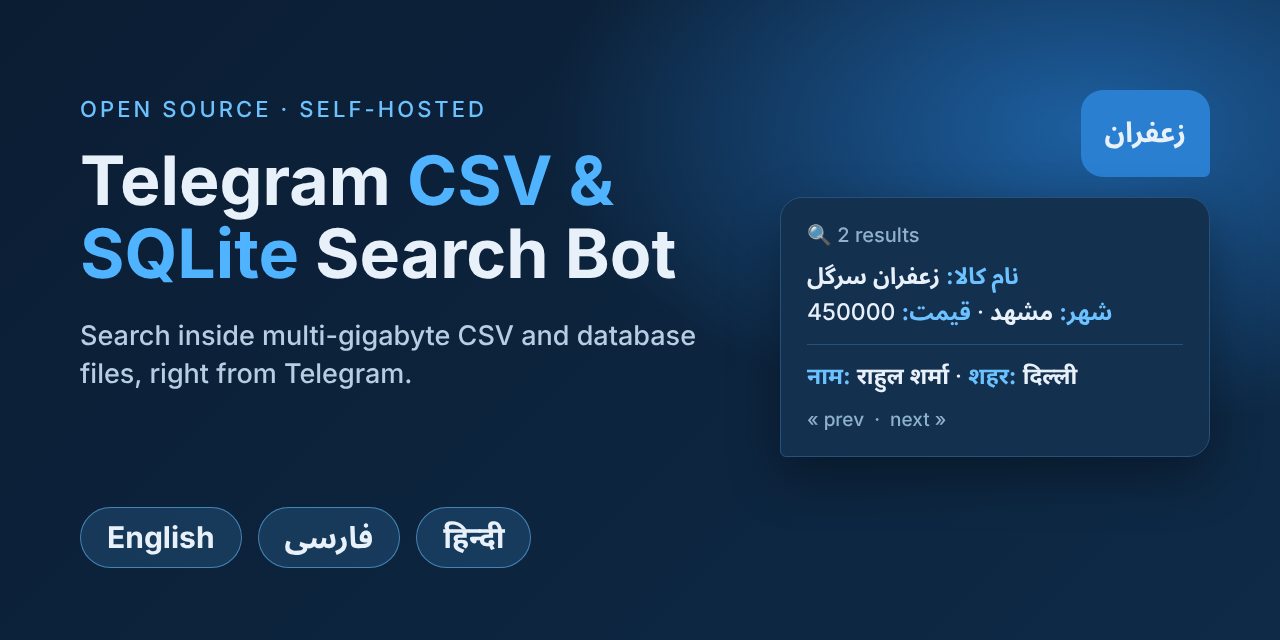
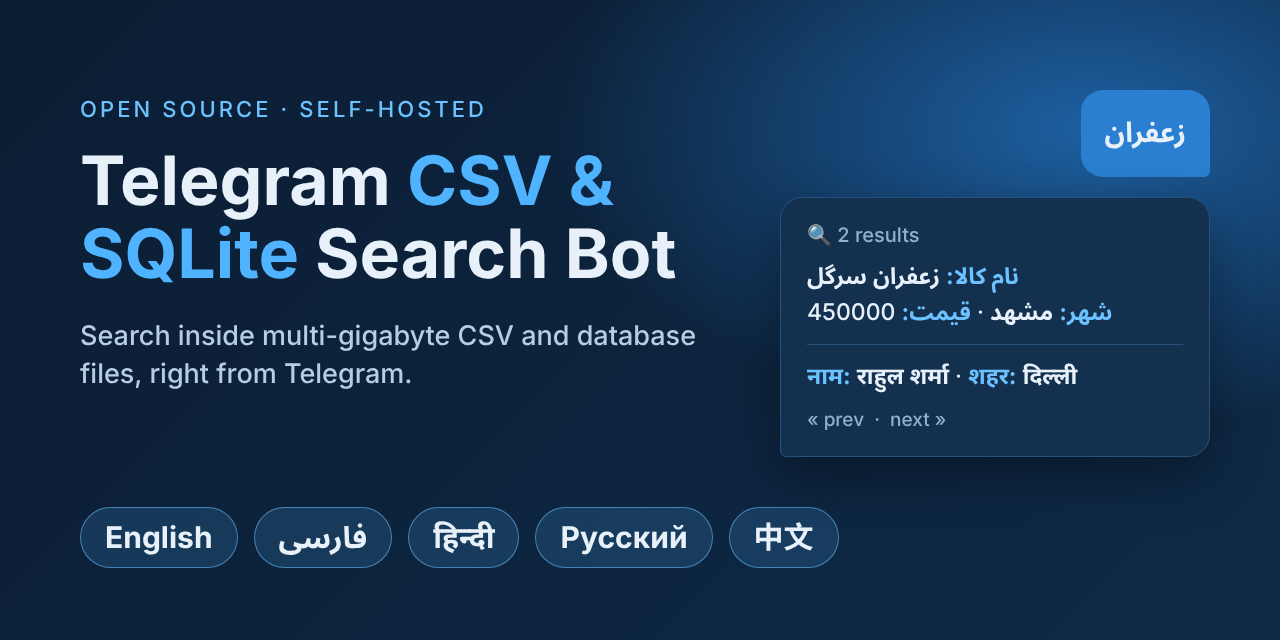
Add Russian and Chinese READMEs; Chinese/Cyrillic search and GBK/Big5/CP1251 encoding detection
Claude-Session: https://claude.ai/code/session_01JgLUDLTUizLZETAGT38Eft

Changed region(s): [[0.0938, 0.7812, 0.6562, 0.9062]]

diff --git a/tests/test_search.py b/tests/test_search.py
@@ -42,6 +42,20 @@ class SearchTest(unittest.TestCase):
         for q in ("राहुल", "शर्मा", "दिल्ली", "09123456789", "०९१२", "फोन", "फ़ोन", '"राहुल शर्मा"'):
             self.assertEqual(self.db.search(q)[0], 1, q)
 
+    def test_chinese_and_russian(self):
+        self.add("z", "z.csv", "姓名,备注\n王小明,我在北京工作\n李华,Привет мир Москва\n".encode())
+        for q, n in (("北京", 1), ("工作", 1), ("在北京", 1), ("小明", 1), ("北", 1), ("京北", 0),
+                     ("王小明 北京", 1), ("привет", 1), ("МОСК", 1), ("мир москва", 1), ('"我在北京"', 1)):
+            self.assertEqual(self.db.search(q)[0], n, q)
+
+    def test_legacy_encodings(self):
+        cases = [("ru", "имя,город\nИван,Москва\nПётр,Санкт-Петербург\nАнна,Казань\n", "cp1251", "москва"),
+                 ("zh", "姓名,城市\n王小明,北京\n李华,上海\n张伟,广州\n", "gbk", "北京"),
+                 ("tw", "姓名,城市\n王小明,台北\n李華,高雄\n", "big5", "高雄")]
+        for uid, text, enc, word in cases:
+            self.add(uid, uid + ".csv", text.encode(enc))
+            self.assertEqual(self.db.search(word)[0], 1, enc)
+
     def test_users(self):
         self.assertTrue(self.db.add_user(5))
         self.assertFalse(self.db.add_user(5))

diff --git a/csvbot/db.py b/csvbot/db.py
@@ -9,7 +9,7 @@ import time
 from contextlib import closing, contextmanager
 from typing import Callable, Iterable
 
-from .text import normalize, tokens
+from .text import CJK, normalize, tokens
 
 SEP = "\x1f"
 BATCH = 20_000
@@ -257,9 +257,15 @@ class Database:
         if len(q) > 2 and q[0] in "\"«" and q[-1] in "\"»":
             words = tokens(q[1:-1])
             return '"' + " ".join(words) + '"' if words else None
-        words = tokens(q)
+        terms, pos = [], 0
+        for m in CJK.finditer(q):  # a run of Chinese/Japanese characters is matched as a phrase
+            terms += [(w, False) for w in tokens(q[pos:m.start()])]
+            terms.append((" ".join(tokens(m.group())), True))
+            pos = m.end()
+        terms += [(w, False) for w in tokens(q[pos:])]
         # Prefix-matching very short words expands to huge term lists; match them exactly.
-        return " ".join(f'"{w}"*' if len(w) >= 3 else f'"{w}"' for w in words) if words else None
+        return " ".join(f'"{w}"' if phrase or len(w) < 3 else f'"{w}"*'
+                        for w, phrase in terms) if terms else None
 
     def delete_row(self, row_id: int) -> bool:
         """Remove one row from the index (the source file is left untouched)."""

diff --git a/csvbot/loader.py b/csvbot/loader.py
@@ -4,8 +4,15 @@ import codecs
 import csv
 from typing import Iterator
 
+from charset_normalizer import from_bytes
+
 SAMPLE_SIZE = 1 << 20  # 1 MB
 csv.field_size_limit(1 << 24)
+
+
+# Legacy code pages we accept from charset detection: Persian/Arabic, Cyrillic, Chinese.
+_LEGACY = {"cp1256": "cp1256", "cp1251": "cp1251", "gb18030": "gb18030", "gbk": "gb18030",
+           "gb2312": "gb18030", "big5": "big5", "big5hkscs": "big5"}
 
 
 def detect_encoding(sample: bytes) -> str:
@@ -16,7 +23,11 @@ def detect_encoding(sample: bytes) -> str:
         codecs.getincrementaldecoder("utf-8-sig")().decode(sample, final=False)
         return "utf-8-sig"
     except UnicodeDecodeError:
-        return "cp1256"  # Windows Arabic/Persian (old Excel exports)
+        pass
+    best = from_bytes(sample[:-4] if len(sample) > 4096 else sample).best()  # a cut-off tail skews detection
+    if best and best.encoding.lower().replace("-", "_") in _LEGACY:
+        return _LEGACY[best.encoding.lower().replace("-", "_")]
+    return "cp1256"  # Windows Arabic/Persian (old Excel exports)
 
 
 def detect_dialect(text: str):

diff --git a/README.ru.md b/README.ru.md
@@ -1,0 +1,96 @@
+<div align="center">
+
+**[English](README.md)** · **[فارسی](README.fa.md)** · **[हिन्दी](README.hi.md)** · **Русский** · **[中文](README.zh.md)**
+
+</div>
+
+# Telegram-бот для поиска по CSV и SQLite
+
+> Бесплатный бот с открытым исходным кодом, который **ищет внутри CSV, TSV и SQLite (`.db`) файлов прямо в Telegram**. Положите файлы в папку и ищите по ним, даже если они весят несколько гигабайт. Полнотекстовый поиск для **русского, английского, персидского, хинди и китайского**. Работает на macOS, Windows, Linux и в Docker.
+
+Ключевые слова: telegram бот, поиск по csv, поиск в csv файле, поиск по sqlite, большие csv файлы, полнотекстовый поиск, python-telegram-bot, self-hosted.
+
+## Возможности
+- **Слежение за папкой:** кладите `.csv`, `.tsv`, `.db`, `.sqlite`, `.sqlite3` в `data/`. Новые файлы индексируются автоматически, изменённые индексируются заново, удалённые пропадают из выдачи.
+- **Огромные файлы:** CSV читается потоком, поэтому память остаётся около 250 МБ даже для файла 3 ГБ и больше. CSV на 6 млн строк индексируется примерно за 2,5 минуты, большинство запросов выполняется быстрее 200 мс (SQLite FTS5).
+- **Базы SQLite:** поиск по всем таблицам каждого `.db` файла (файл открывается только для чтения).
+- **Много языков:** цифры (`0912`, `۰۹۱۲`, `०९१२`) считаются одинаковыми, арабские диакритики и «нукта» в хинди убираются, а китайский текст ищется по любой части фразы (`北京` найдётся в «我在北京工作»). Кодировка (UTF-8, UTF-16, GBK, Big5, Windows-1251/1256) и разделитель (`, ; | tab`) определяются автоматически.
+- **Синтаксис поиска:** несколько слов (должны встретиться все), начало слова (от 3 символов), `"точная фраза"`, кнопки страниц.
+- **Контроль доступа:** по умолчанию бот закрыт; администратор добавляет и удаляет пользователей прямо в чате (`/adduser`, `/deluser`).
+- **Безопасность:** лимиты поисков и результатов на пользователя, журнал всех запросов (`/audit`).
+- **Инструменты администратора:** загрузка небольших файлов в чат, `/reload`, удаление строки из индекса или из исходного файла.
+- **Нужен только токен бота** (без `API_ID` и `API_HASH`). Есть прокси и свой сервер Bot API для регионов, где Telegram заблокирован.
+
+## Быстрый старт
+
+### 1. Создайте бота
+1. Напишите [@BotFather](https://t.me/BotFather) команду `/newbot` и скопируйте **токен**.
+2. Узнайте свой числовой id у [@userinfobot](https://t.me/userinfobot); это `ADMIN_IDS`.
+
+### 2. Установка
+
+**Docker** (любая ОС)
+```bash
+git clone https://github.com/plaipa/telegram-csv-search-bot.git
+cd telegram-csv-search-bot
+cp .env.example .env        # заполните BOT_TOKEN и ADMIN_IDS
+docker compose up -d --build
+```
+
+**Python 3.10+** (macOS / Linux)
+```bash
+cp .env.example .env        # заполните BOT_TOKEN и ADMIN_IDS
+python3 -m venv .venv && .venv/bin/pip install -r requirements.txt
+.venv/bin/python -m csvbot.check   # проверяет настройки и доступ к Telegram
+.venv/bin/python -m csvbot.bot
+```
+В Windows используйте `py -m venv .venv`, `.venv\Scripts\pip` и `.venv\Scripts\python`. На Linux-сервере `bash deploy/setup.sh` создаёт службу systemd; на macOS: `bash deploy/mac.sh`. Нужен SQLite 3.43 или новее (проверка: `python -m csvbot.check`; в Docker он уже есть).
+
+### 3. Добавьте файлы и ищите
+Скопируйте CSV / SQLite файлы в `data/` (там лежит вымышленный `sample.csv`). В течение минуты администратор получит сообщение «файл проиндексирован». После этого отправьте боту любое слово.
+
+## Настройки (`.env`)
+| Параметр | Описание | По умолчанию |
+|---|---|---|
+| `BOT_TOKEN` | Токен от @BotFather (обязательно) | — |
+| `ADMIN_IDS` | Числовые id администраторов через запятую | — |
+| `ALLOWED_USER_IDS` | Дополнительные пользователи (кроме администраторов и добавленных через `/adduser`) | — |
+| `DATA_DIR` | Папка с файлами (относительный или полный путь) | `data` |
+| `DB_PATH` | Файл поискового индекса (создаётся сам) | `index.db` |
+| `SCAN_INTERVAL` | Интервал проверки папки, секунд | `60` |
+| `PAGE_SIZE` | Результатов на страницу | `5` |
+| `SEARCH_LIMIT_HOUR` / `SEARCH_LIMIT_DAY` | Поисков на обычного пользователя в час / сутки (`0` = без лимита) | `60` / `300` |
+| `MAX_RESULTS` | Сколько результатов обычный пользователь может листать в одном поиске (`0` = без лимита) | `50` |
+| `AUDIT_DAYS` | Сколько дней хранить журнал поисков (`0` = всегда) | `180` |
+| `PROXY` | например `socks5://127.0.0.1:10808` | — |
+| `TELEGRAM_API_URL` | Свой сервер Bot API | `https://api.telegram.org` |
+
+После любых изменений запускайте `python -m csvbot.check`; он не выводит секреты.
+
+## Команды бота
+| Команда | Действие | Кому |
+|---|---|---|
+| любой текст, `/search текст` | Поиск | администраторам и разрешённым пользователям |
+| `/start` | Справка; без доступа пользователь видит, как связаться с администратором | всем |
+| `/files` | Список проиндексированных файлов | администратор |
+| `/reload` | Проверить папку сейчас | администратор |
+| `/adduser ID`, `/deluser ID`, `/users` | Управление пользователями | администратор |
+| `/audit [ID]` | Последние поиски (кто, когда, что) | администратор |
+| кнопка 🗑 под результатами | Удалить строку из индекса или ещё и из исходного файла (необратимо) | администратор |
+| отправка файла | Добавить CSV/DB меньше 20 МБ | администратор |
+
+## Сменить токен или сервер Telegram API
+- **Токен:** отправьте BotFather `/revoke` (тот же бот) или `/newbot`, впишите новый токен в `BOT_TOKEN` в `.env`, запустите `python -m csvbot.check` и перезапустите бота. На один токен — один запущенный экземпляр.
+- **Сервер API:** задайте `TELEGRAM_API_URL=https://your-mirror.example.com` (обратный прокси, Cloudflare Worker или собственный [telegram-bot-api](https://github.com/tdlib/telegram-bot-api); последний ещё и снимает лимит 20 МБ на загрузку). Токен бота проходит через этот сервер, поэтому используйте только свой или полностью доверенный.
+- **Прокси / VPN:** `PROXY=socks5://127.0.0.1:10808`. `python -m csvbot.check` умеет находить локальный прокси сам.
+
+## Документация
+- Полное руководство: [English](README.md) · [فارسی](README.fa.md) · [हिन्दी](README.hi.md) · [中文](README.zh.md)
+- Запуск на своём компьютере: [docs/local.md](docs/local.md) · бесплатный сервер Oracle Cloud: [docs/oracle-cloud.md](docs/oracle-cloud.md)
+- Настройки репозитория на GitHub: [docs/github-seo.md](docs/github-seo.md)
+- Тесты: `python -m unittest discover -s tests -v`
+
+## Ответственное использование, лицензия и отказ от гарантий
+Бот — универсальный инструмент поиска по файлам. В комплекте нет никаких данных, он ничего никуда не отправляет и ничего не собирает; каждая установка независима и читает только файлы, которые **вы** положили в `data/`. Вы отвечаете за свои данные и за соблюдение местных законов (включая законы о защите персональных данных) и правил Telegram. Не используйте бот для поиска по персональным данным, собранным или утёкшим без согласия людей. Не добавляйте `.env` и `data/` в git.
+
+Лицензия [MIT](LICENSE), предоставляется «как есть», без гарантий.

diff --git a/README.zh.md b/README.zh.md
@@ -1,0 +1,96 @@
+<div align="center">
+
+**[English](README.md)** · **[فارسی](README.fa.md)** · **[हिन्दी](README.hi.md)** · **[Русский](README.ru.md)** · **中文**
+
+</div>
+
+# Telegram CSV 与 SQLite 搜索机器人
+
+> 免费开源的 **Telegram 机器人，可在 CSV、TSV 和 SQLite（`.db`）文件内搜索**。把文件放进文件夹，就能直接在 Telegram 里搜索，几个 GB 的大文件也没问题。支持**中文、英语、波斯语、印地语和俄语**的全文搜索。可运行于 macOS、Windows、Linux 和 Docker。
+
+关键词：telegram 机器人、CSV 搜索、搜索 CSV 文件、SQLite 搜索、大型 CSV 文件、全文搜索、python-telegram-bot、自托管。
+
+## 功能
+- **监控文件夹：** 把 `.csv`、`.tsv`、`.db`、`.sqlite`、`.sqlite3` 文件放进 `data/`。新文件自动建立索引，修改过的文件重新索引，删除的文件从结果中消失。
+- **超大文件：** CSV 以流方式读取，即使文件超过 3 GB，内存也只占约 250 MB。600 万行的 CSV 约 2.5 分钟建好索引，大多数搜索在 200 毫秒内完成（SQLite FTS5）。
+- **SQLite 数据库：** 可搜索每个 `.db` 文件的所有表（以只读方式打开）。
+- **多语言文本：** 数字 `0912`、`۰۹۱۲`、`०९१२` 视为相同；会去掉阿拉伯语变音符号和印地语 nukta；中文可按任意片段搜索（搜“北京”能找到“我在北京工作”）。编码（UTF-8、UTF-16、GBK、Big5、Windows-1251/1256）和分隔符（`, ; | tab`）自动识别。
+- **搜索语法：** 多个词（必须全部出现）、词首匹配（3 个字符以上）、`"精确短语"`、翻页按钮。
+- **访问控制：** 机器人默认关闭；管理员可直接在聊天中添加或删除用户（`/adduser`、`/deluser`）。
+- **安全：** 每个用户的搜索次数与结果数量限制，以及所有搜索的审计日志（`/audit`）。
+- **管理员工具：** 在聊天里上传小文件、`/reload`、从索引或原始文件中删除某一行。
+- **只需要机器人令牌**（不需要 `API_ID` / `API_HASH`）。在 Telegram 被屏蔽的地区，可使用代理或自建 Bot API 服务器。
+
+## 快速开始
+
+### 1. 创建机器人
+1. 在 Telegram 里给 [@BotFather](https://t.me/BotFather) 发送 `/newbot`，复制**令牌**。
+2. 从 [@userinfobot](https://t.me/userinfobot) 获取你的数字 id，这就是 `ADMIN_IDS`。
+
+### 2. 安装
+
+**Docker**（任何系统）
+```bash
+git clone https://github.com/plaipa/telegram-csv-search-bot.git
+cd telegram-csv-search-bot
+cp .env.example .env        # 填写 BOT_TOKEN 和 ADMIN_IDS
+docker compose up -d --build
+```
+
+**Python 3.10+**（macOS / Linux）
+```bash
+cp .env.example .env        # 填写 BOT_TOKEN 和 ADMIN_IDS
+python3 -m venv .venv && .venv/bin/pip install -r requirements.txt
+.venv/bin/python -m csvbot.check   # 检查设置和 Telegram 连接
+.venv/bin/python -m csvbot.bot
+```
+Windows 请使用 `py -m venv .venv`、`.venv\Scripts\pip` 和 `.venv\Scripts\python`。Linux 服务器可用 `bash deploy/setup.sh` 安装 systemd 服务；macOS 用 `bash deploy/mac.sh`。需要 SQLite 3.43 或更高版本（用 `python -m csvbot.check` 检查；Docker 镜像已包含）。
+
+### 3. 添加文件并搜索
+把 CSV / SQLite 文件复制到 `data/`（里面带有一个虚构的 `sample.csv`）。一分钟内管理员会收到“文件已建立索引”的消息。然后给机器人发送任意词即可搜索。
+
+## 设置（`.env`）
+| 设置 | 说明 | 默认值 |
+|---|---|---|
+| `BOT_TOKEN` | 来自 @BotFather 的令牌（必填） | — |
+| `ADMIN_IDS` | 管理员的数字 id，用逗号分隔 | — |
+| `ALLOWED_USER_IDS` | 额外的允许用户（管理员和通过 `/adduser` 添加的用户之外） | — |
+| `DATA_DIR` | 存放文件的文件夹（相对或绝对路径） | `data` |
+| `DB_PATH` | 搜索索引文件（自动创建） | `index.db` |
+| `SCAN_INTERVAL` | 扫描文件夹的间隔（秒） | `60` |
+| `PAGE_SIZE` | 每页结果数 | `5` |
+| `SEARCH_LIMIT_HOUR` / `SEARCH_LIMIT_DAY` | 普通用户每小时 / 每天的搜索次数（`0` = 不限） | `60` / `300` |
+| `MAX_RESULTS` | 普通用户每次搜索最多可翻看的结果数（`0` = 不限） | `50` |
+| `AUDIT_DAYS` | 搜索日志保留天数（`0` = 永久） | `180` |
+| `PROXY` | 例如 `socks5://127.0.0.1:10808` | — |
+| `TELEGRAM_API_URL` | 自定义 Bot API 服务器 | `https://api.telegram.org` |
+
+修改设置后请运行 `python -m csvbot.check`，它不会输出任何密钥。
+
+## 机器人命令
+| 命令 | 作用 | 谁可以用 |
+|---|---|---|
+| 任意文字、`/search 文字` | 搜索 | 管理员和允许的用户 |
+| `/start` | 帮助；没有权限的用户会看到如何联系管理员 | 所有人 |
+| `/files` | 已索引文件列表 | 管理员 |
+| `/reload` | 立即扫描文件夹 | 管理员 |
+| `/adduser ID`、`/deluser ID`、`/users` | 管理允许的用户 | 管理员 |
+| `/audit [ID]` | 最近的搜索（谁、何时、搜了什么） | 管理员 |
+| 结果下方的 🗑 按钮 | 从索引中删除该行，或同时从原始文件中删除（不可恢复） | 管理员 |
+| 发送文件 | 添加小于 20 MB 的 CSV/DB | 管理员 |
+
+## 更换令牌或 Telegram API 服务器
+- **令牌：** 在 BotFather 中发送 `/revoke`（同一个机器人）或 `/newbot`，把新令牌填入 `.env` 的 `BOT_TOKEN`，运行 `python -m csvbot.check`，然后重启机器人。一个令牌只能运行一个实例。
+- **API 服务器：** 设置 `TELEGRAM_API_URL=https://your-mirror.example.com`（反向代理、Cloudflare Worker，或自己的 [telegram-bot-api](https://github.com/tdlib/telegram-bot-api) 服务器；后者还能取消 20 MB 的上传限制）。机器人令牌会经过该服务器，所以只使用你自己的或完全信任的服务器。
+- **代理 / VPN：** `PROXY=socks5://127.0.0.1:10808`。`python -m csvbot.check` 可以自动发现本地代理。
+
+## 文档
+- 完整说明：[English](README.md) · [فارسی](README.fa.md) · [हिन्दी](README.hi.md) · [Русский](README.ru.md)
+- 在自己的电脑上运行：[docs/local.md](docs/local.md) · 免费的 Oracle Cloud 服务器：[docs/oracle-cloud.md](docs/oracle-cloud.md)
+- GitHub 仓库设置：[docs/github-seo.md](docs/github-seo.md)
+- 测试：`python -m unittest discover -s tests -v`
+
+## 负责任的使用、许可证与免责声明
+本机器人是通用的文件搜索工具。它不附带任何数据，不会向任何地方发送数据，也不收集任何内容；每个安装都是独立的，只读取**你自己**放进 `data/` 的文件。你需要对自己的数据负责，并遵守当地法律（包括个人信息保护法）和 Telegram 的条款。请勿用它搜索未经本人同意收集或泄露的个人信息。不要把 `.env` 和 `data/` 提交到 git。
+
+采用 [MIT 许可证](LICENSE)，按“现状”提供，不附带任何担保。

diff --git a/README.md b/README.md
@@ -1,20 +1,20 @@
 <div align="center">
 
-**English** · **[فارسی](README.fa.md)** · **[हिन्दी](README.hi.md)**
+**English** · **[فارسی](README.fa.md)** · **[हिन्दी](README.hi.md)** · **[Русский](README.ru.md)** · **[中文](README.zh.md)**
 
 </div>
 
 # Telegram CSV & SQLite Search Bot
 
-> A free, open-source **Telegram bot that searches inside CSV, TSV and SQLite (`.db`) files**. Drop your files in a folder and search them from Telegram, even multi-gigabyte files. Full-text search with **Persian, Arabic, Hindi and English** text support. Runs on macOS, Windows, Linux and Docker.
+> A free, open-source **Telegram bot that searches inside CSV, TSV and SQLite (`.db`) files**. Drop your files in a folder and search them from Telegram, even multi-gigabyte files. Full-text search with **English, Persian, Arabic, Hindi, Russian and Chinese** text support. Runs on macOS, Windows, Linux and Docker.
 
-Keywords: telegram bot, csv search, sqlite search, search csv in telegram, full-text search, FTS5, large csv files, python-telegram-bot, Persian / Farsi / Hindi / Arabic search.
+Keywords: telegram bot, csv search, sqlite search, search csv in telegram, full-text search, FTS5, large csv files, python-telegram-bot, Persian / Farsi / Hindi / Arabic / Russian / Chinese search.
 
 ## Features
 - **Folder watching:** put `.csv`, `.tsv`, `.db`, `.sqlite`, `.sqlite3` files in `data/`. New files are indexed automatically, changed files are re-indexed, deleted files disappear from results.
 - **Huge files:** CSV is streamed, so memory stays around 250 MB even for 3 GB+ files. A 6-million-row CSV indexes in about 2.5 minutes; most searches answer in under 200 ms (SQLite FTS5).
 - **SQLite databases:** every table of every `.db` file is searchable (opened read-only).
-- **Multilingual text:** Persian/Arabic letters (ي/ی, ك/ک), Persian/Arabic/Hindi (Devanagari) digits, Arabic diacritics and the Hindi nukta (फ़ = फ) are normalized, so `०९१२`, `۰۹۱۲` and `0912` all match. Encoding (UTF-8, Windows-1256, UTF-16) and delimiter (`, ; | tab`) are auto-detected.
+- **Multilingual text:** Persian/Arabic letters (ي/ی, ك/ک), Persian/Arabic/Hindi (Devanagari) digits, Arabic diacritics and the Hindi nukta (फ़ = फ) are normalized, so `०९१२`, `۰۹۱۲` and `0912` all match. Chinese is searchable by any part of a phrase (`北京` finds `我在北京工作`). Encoding (UTF-8, UTF-16, GBK, Big5, Windows-1251/1256) and delimiter (`, ; | tab`) are auto-detected.
 - **Search syntax:** several words (all must match), word prefixes (3+ characters), `"exact phrase"`, paging buttons.
 - **Access control:** closed by default; admins add or remove users from the chat (`/adduser`, `/deluser`).
 - **Safety:** per-user search and result limits, an audit log of every search (`/audit`).
@@ -85,7 +85,7 @@ Run `python -m csvbot.check` after any change; it never prints secrets.
 - **Proxy / VPN:** `PROXY=socks5://127.0.0.1:10808`. `python -m csvbot.check` can detect a local proxy automatically.
 
 ## Documentation
-- Full guide in Persian: [README.fa.md](README.fa.md) · Hindi: [README.hi.md](README.hi.md)
+- Full guide in other languages: [فارسی](README.fa.md) · [हिन्दी](README.hi.md) · [Русский](README.ru.md) · [中文](README.zh.md)
 - Run on your own computer: [docs/local.md](docs/local.md) · Free Oracle Cloud server: [docs/oracle-cloud.md](docs/oracle-cloud.md)
 - GitHub repo settings (name, topics, description): [docs/github-seo.md](docs/github-seo.md)
 - Tests: `python -m unittest discover -s tests -v`

diff --git a/README.hi.md b/README.hi.md
@@ -1,6 +1,6 @@
 <div align="center">
 
-**[English](README.md)** · **[فارسی](README.fa.md)** · **हिन्दी**
+**[English](README.md)** · **[فارسی](README.fa.md)** · **हिन्दी** · **[Русский](README.ru.md)** · **[中文](README.zh.md)**
 
 </div>
 
@@ -14,7 +14,7 @@
 - **फ़ोल्डर की निगरानी:** `.csv`, `.tsv`, `.db`, `.sqlite`, `.sqlite3` फ़ाइलें `data/` में रखें। नई फ़ाइल अपने-आप इंडेक्स होती है, बदली हुई फ़ाइल दोबारा इंडेक्स होती है और हटाई गई फ़ाइल नतीजों से गायब हो जाती है।
 - **बहुत बड़ी फ़ाइलें:** CSV को लाइन-दर-लाइन पढ़ा जाता है, इसलिए 3 GB से बड़ी फ़ाइल पर भी मेमोरी लगभग 250 MB रहती है। 60 लाख पंक्तियों की CSV करीब 2.5 मिनट में इंडेक्स होती है और ज़्यादातर खोजें 200 ms से कम में पूरी होती हैं (SQLite FTS5)।
 - **SQLite डेटाबेस:** हर `.db` फ़ाइल की सभी तालिकाओं (tables) में खोज सकते हैं; फ़ाइल सिर्फ़ पढ़ने के मोड में खुलती है।
-- **बहुभाषी टेक्स्ट:** देवनागरी अंक (`०९१२`), फ़ारसी/अरबी अंक और `0912` एक जैसे माने जाते हैं। नुक़्ता (फ़ = फ) और अरबी हरकतें हटा दी जाती हैं। एन्कोडिंग (UTF-8, Windows-1256, UTF-16) और विभाजक (`, ; | tab`) अपने-आप पहचाने जाते हैं।
+- **बहुभाषी टेक्स्ट:** देवनागरी अंक (`०९१२`), फ़ारसी/अरबी अंक और `0912` एक जैसे माने जाते हैं। नुक़्ता (फ़ = फ) और अरबी हरकतें हटा दी जाती हैं। एन्कोडिंग (UTF-8, UTF-16, GBK, Big5, Windows-1251/1256) और विभाजक (`, ; | tab`) अपने-आप पहचाने जाते हैं।
 - **खोज का तरीका:** कई शब्द (सभी का मिलना ज़रूरी), शब्द की शुरुआत (3+ अक्षर), `"पूरा वाक्यांश"` और पेज बटन।
 - **एक्सेस कंट्रोल:** बॉट शुरू से बंद रहता है; एडमिन चैट से ही यूज़र जोड़/हटा सकता है (`/adduser`, `/deluser`)।
 - **सुरक्षा:** हर यूज़र के लिए खोज और नतीजों की सीमा, और हर खोज का ऑडिट लॉग (`/audit`)।

diff --git a/README.fa.md b/README.fa.md
@@ -1,6 +1,6 @@
 <div align="center">
 
-**[English](README.md)** · **فارسی** · **[हिन्दी](README.hi.md)**
+**[English](README.md)** · **فارسی** · **[हिन्दी](README.hi.md)** · **[Русский](README.ru.md)** · **[中文](README.zh.md)**
 
 </div>
 
@@ -48,7 +48,7 @@
 - **فایلهای چند گیگابایتی:** فایل خطبهخط خوانده میشود و مصرف رم حدود ۲۵۰ مگابایت ثابت میماند.
 - **فایل در حال کپی:** ربات صبر میکند تا کپی تمام شود و بعد ثبتش میکند.
 - **فارسی:** «ي» و «ی»، «ك» و «ک»، و اعداد فارسی، عربی، هندی و انگلیسی یکسان در نظر گرفته میشوند. متن هندی (دیوناگری) هم قابل جستجو است.
-- **تشخیص خودکار** encoding (UTF-8 و Windows-1256 اکسل قدیمی) و جداکنندهی CSV (`,` `;` تب `|`).
+- **تشخیص خودکار** encoding (UTF-8، UTF-16، GBK، Big5 و Windows-1251/1256 اکسل قدیمی) و جداکنندهی CSV (`,` `;` تب `|`).
 - **جستجو:** چندکلمهای، با بخشی از ابتدای کلمه، و دقیق با "گیومه". نتایج صفحهبندی دارند.
 - **پروکسی و آدرس API قابل تغییر** برای جاهایی که تلگرام فیلتر است.
 - **دسترسی:** میتوانید جستجو را به کاربران مشخص محدود کنید.

diff --git a/docs/github-seo.md b/docs/github-seo.md
@@ -5,10 +5,10 @@ The README files already contain the keywords. These settings cannot be committe
 **Repository name** (Settings → General → Rename). `DB` is not searchable. Use e.g. `telegram-csv-search-bot`. GitHub redirects the old URL.
 
 **About → Description** (max 350 chars, keep it in the first lines):
-> Telegram bot to search inside large CSV and SQLite files. Full-text search, Persian / Hindi / English, folder watching, Docker. ربات تلگرام جستجو در CSV · टेलीग्राम बॉट CSV सर्च
+> Telegram bot to search inside large CSV and SQLite files. Full-text search, Persian / Hindi / Russian / Chinese / English, folder watching, Docker. ربات تلگرام جستجو در CSV · टेलीग्राम बॉट CSV सर्च · Telegram-бот поиск по CSV · Telegram CSV 搜索机器人
 
 **Topics** (About → gear → Topics):
-`telegram-bot` `csv` `sqlite` `search` `full-text-search` `fts5` `python` `python-telegram-bot` `csv-search` `database-search` `large-files` `docker` `persian` `farsi` `hindi` `rtl` `self-hosted`
+`telegram-bot` `csv` `sqlite` `search` `full-text-search` `fts5` `python` `python-telegram-bot` `csv-search` `database-search` `large-files` `docker` `persian` `farsi` `hindi` `russian` `chinese` `multilingual` `rtl` `self-hosted`
 
 **Website** (About): leave empty or link to the docs.
 
